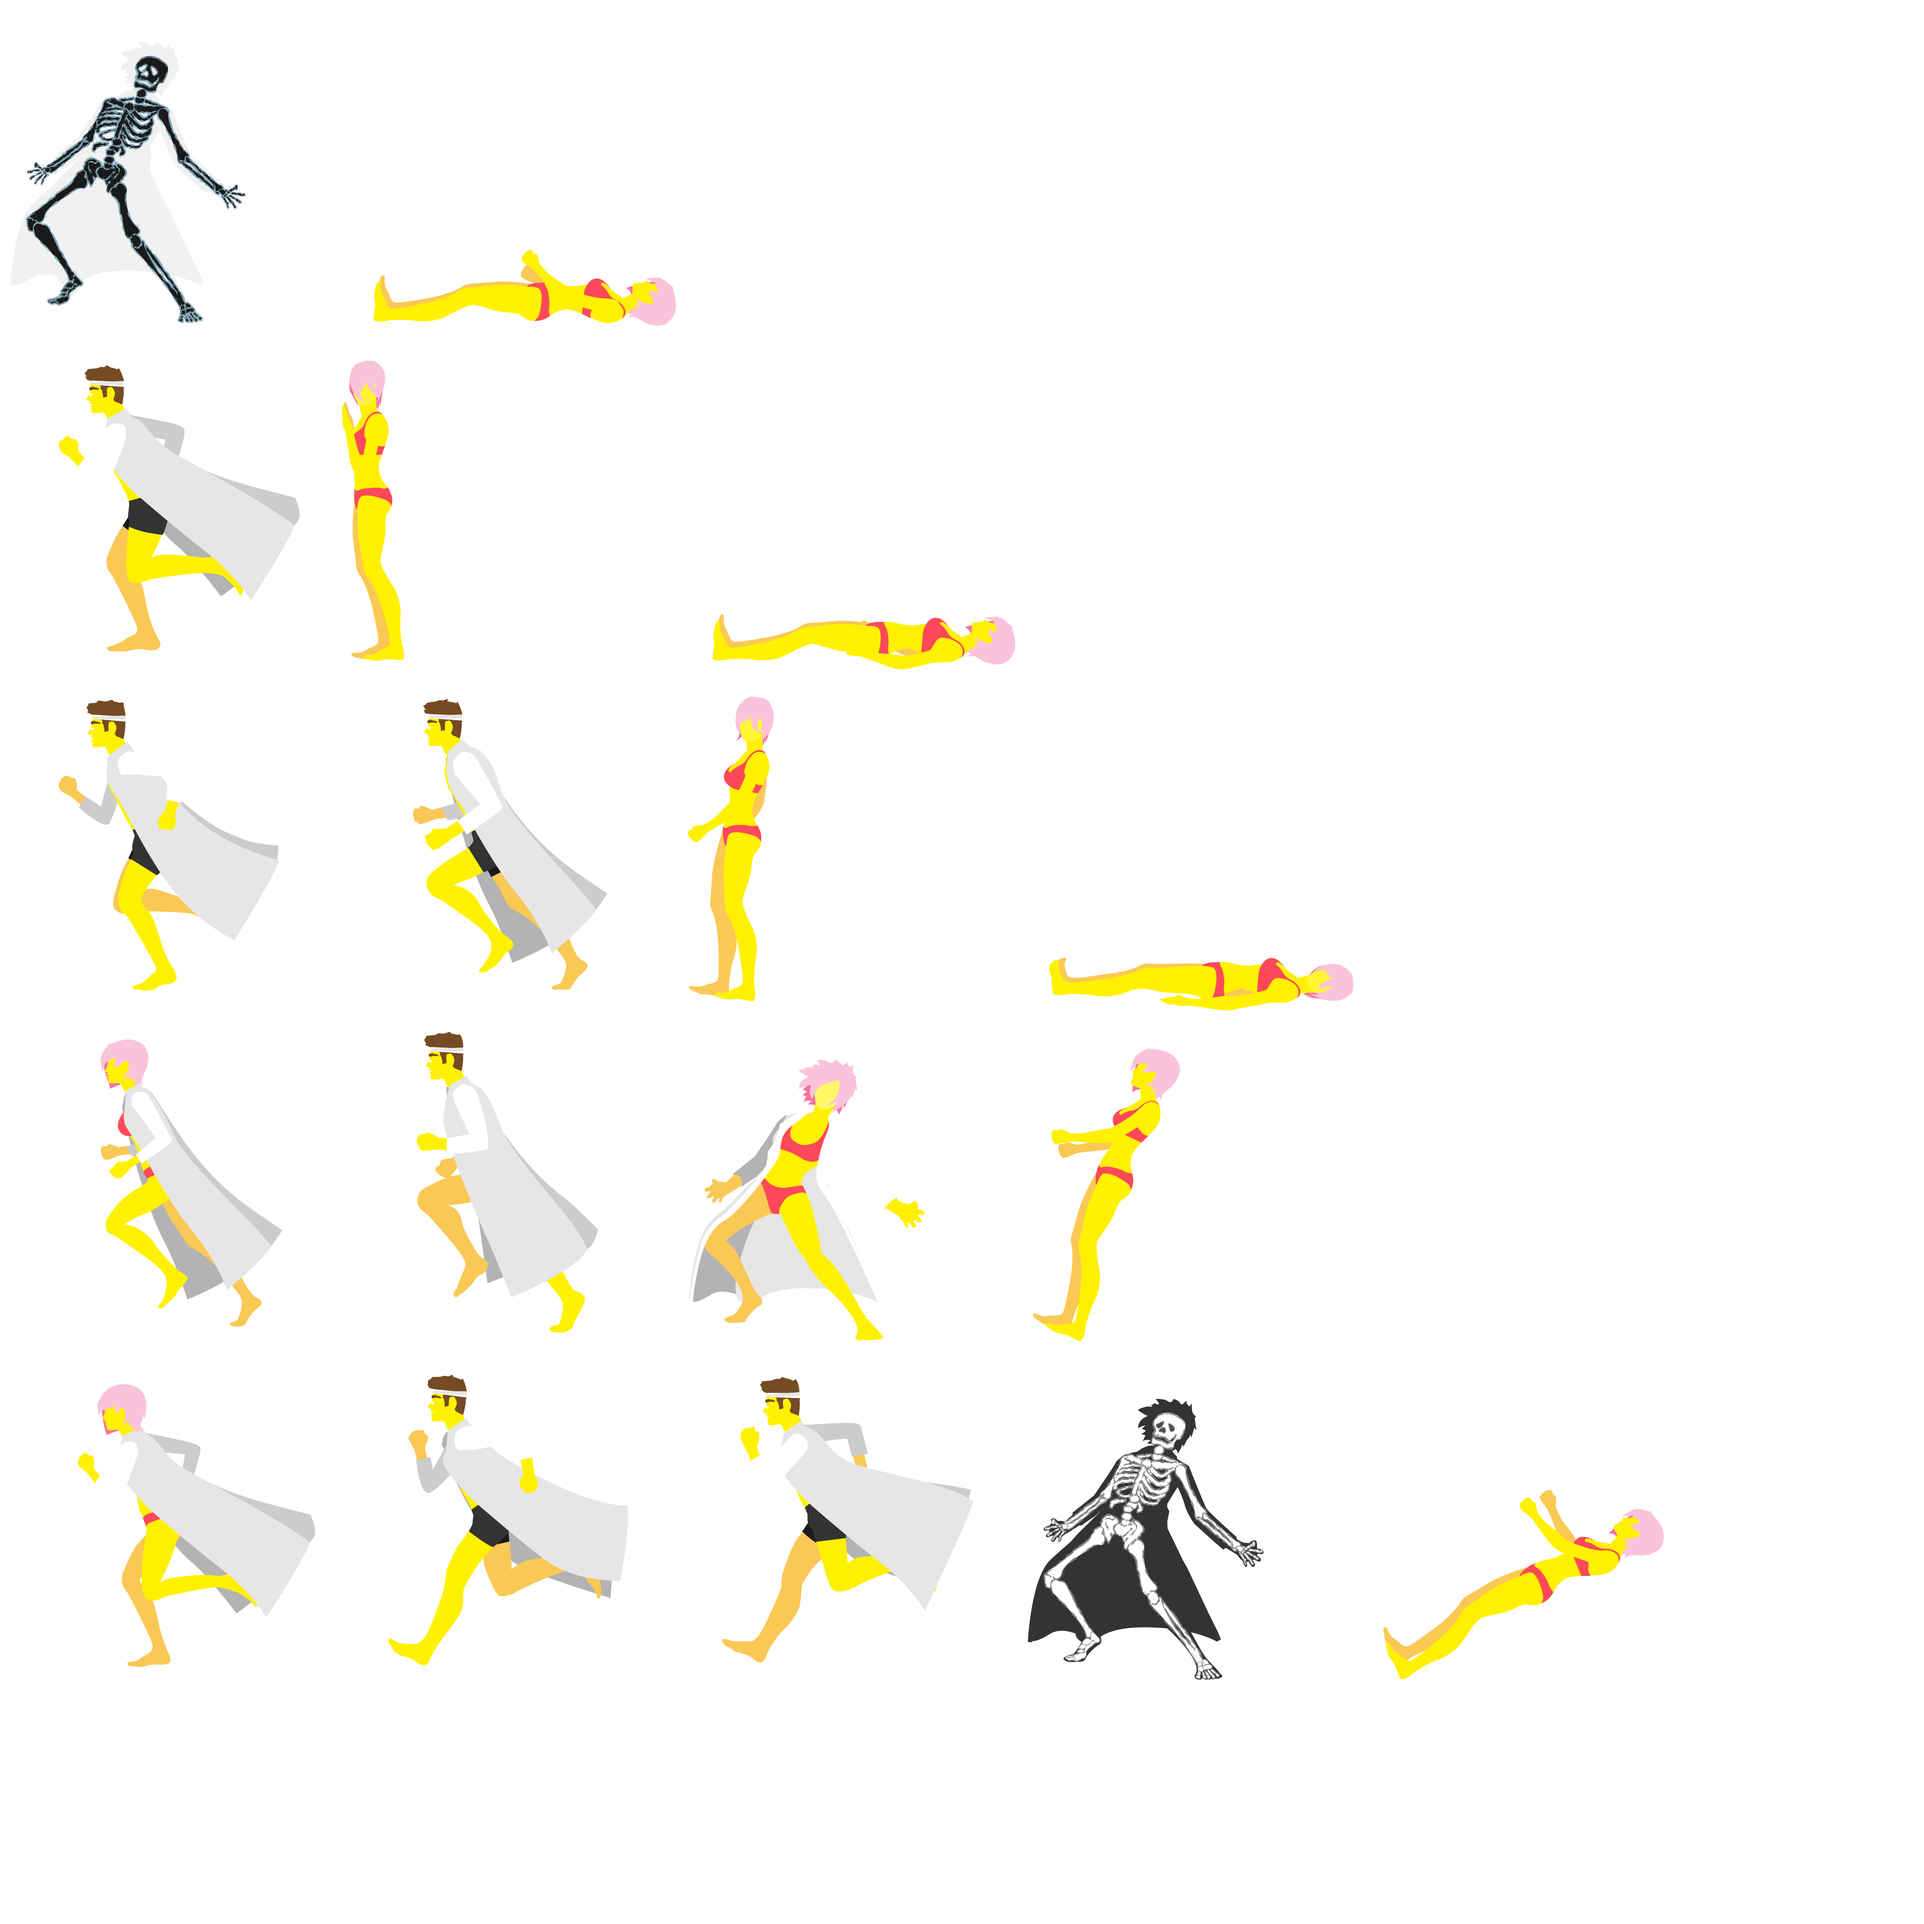
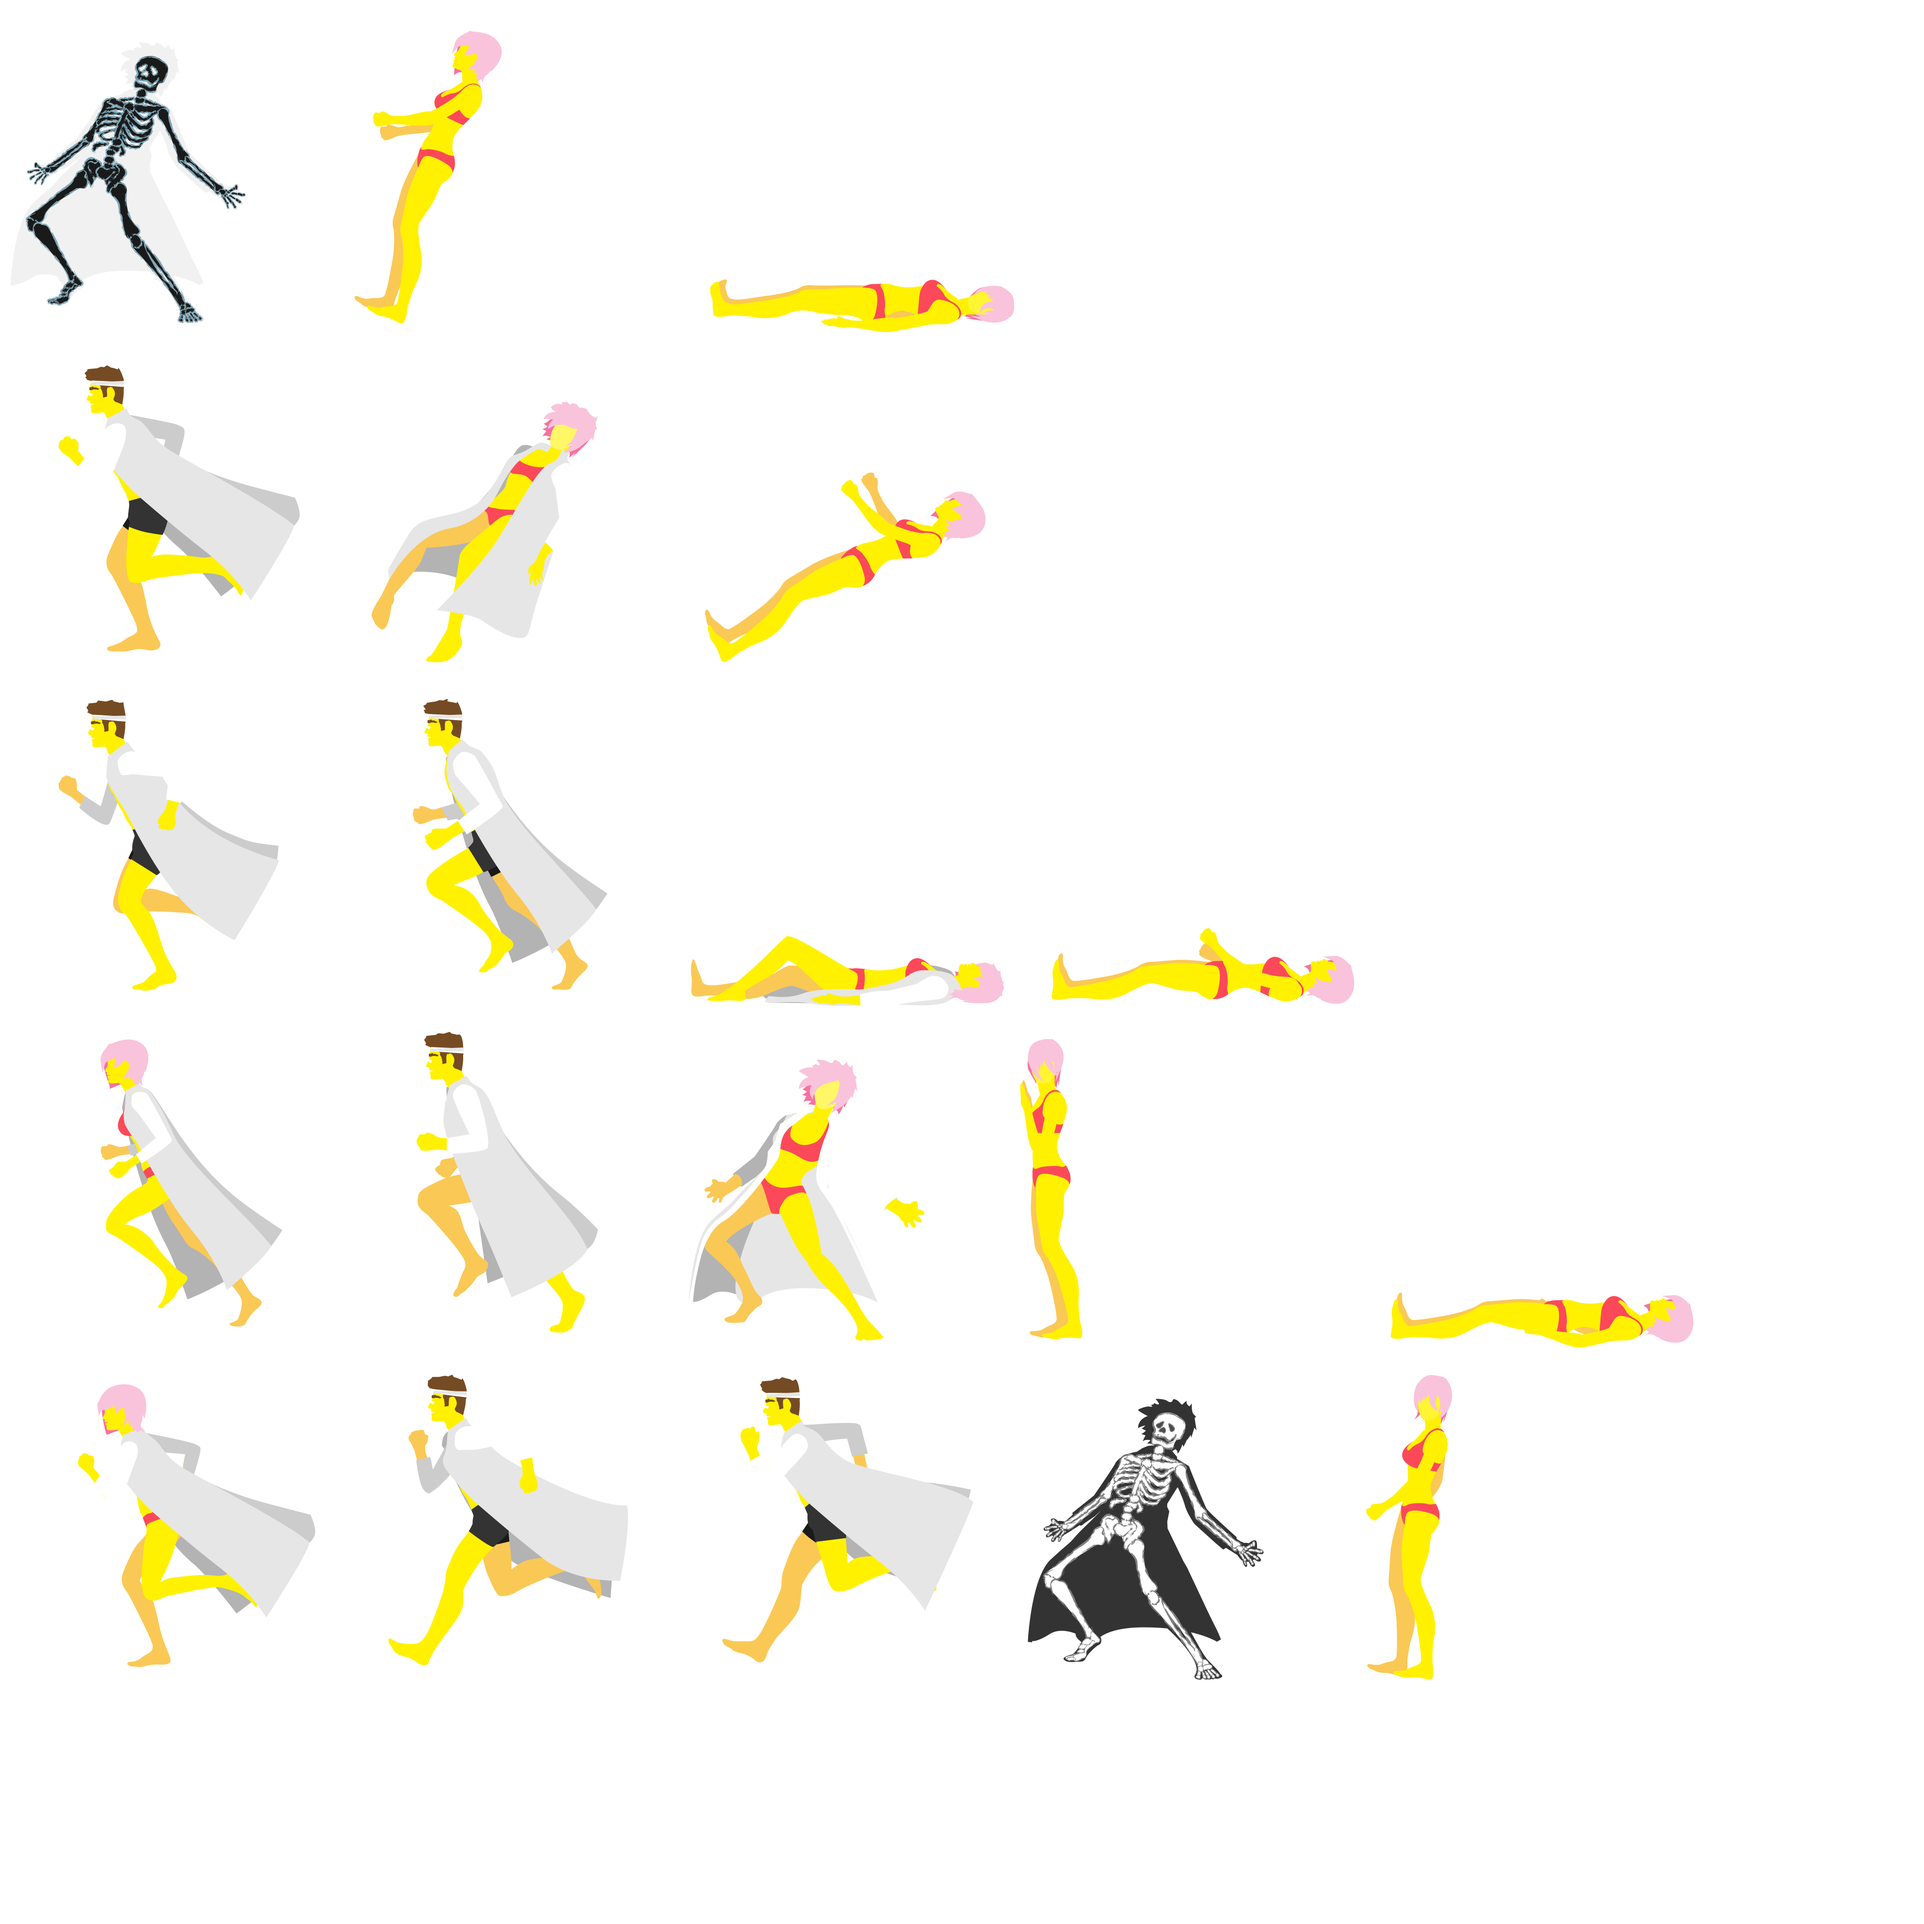
Adding shock animation, and option Size.
Finalizing the shock animation and fixing player selection ratio.

Changed region(s): [[0.1562, 0.0, 0.5312, 0.3438], [0.3438, 0.25, 0.7188, 0.7188], [0.7188, 0.6562, 0.875, 0.875]]

diff --git a/core/src/com/kasetagen/game/bubblerunner/scene2d/BubbleRunnerStage.java b/core/src/com/kasetagen/game/bubblerunner/scene2d/BubbleRunnerStage.java
@@ -68,8 +68,8 @@ public class BubbleRunnerStage extends BaseStage {
     private static final float INDICATOR_HEIGHT = ViewportUtil.VP_HEIGHT/4;
 
     private static String characterSelected = "Woman";
-    private static float[] playerDimensions = new float[] { 100f, 120f, 360f, 360f };//ViewportUtil.VP_WIDTH/8, (ViewportUtil.VP_HEIGHT/3) }; //old width 160f
-    //private static float[] floorDimensions = new float[] { 0f, 0f, ViewportUtil.VP_WIDTH, FLOOR_HEIGHT };
+    private static float[] playerDimensions = new float[] { 100f, 120f, 360f, 360f };
+
     private static float[] wallDimensions = new float[] {ViewportUtil.VP_WIDTH+FLOOR_HEIGHT,
                                                          FLOOR_HEIGHT, 40f, ViewportUtil.VP_HEIGHT-FLOOR_HEIGHT };
     private static float[] warningIndicatorDimensions = new float[] {ViewportUtil.VP_WIDTH/2 - (INDICATOR_WIDTH/2), ViewportUtil.VP_HEIGHT/2-(INDICATOR_HEIGHT/2),

diff --git a/core/src/com/kasetagen/game/bubblerunner/util/AnimationUtil.java b/core/src/com/kasetagen/game/bubblerunner/util/AnimationUtil.java
@@ -11,6 +11,6 @@ public class AnimationUtil {
 
     public static final float RUNNER_CYCLE_RATE = 1f/8f;
     public static final float RUNNER_FIRE_CYCLE_RATE = 1f/6f;
-    public static final float RUNNER_ELECTRO_CYCLE_RATE = 1f/8f;
+    public static final float RUNNER_ELECTRO_CYCLE_RATE = 1f/10f;
     public static final float RUNNER_WALL_CYCLE_RATE = 1f/8f;
 }

diff --git a/core/src/com/kasetagen/game/bubblerunner/screen/BubbleRunnerOptionsMenu.java b/core/src/com/kasetagen/game/bubblerunner/screen/BubbleRunnerOptionsMenu.java
@@ -150,7 +150,7 @@ public class BubbleRunnerOptionsMenu extends BaseBubbleRunnerScreen{
         table.columnDefaults(2).expandX().left().padLeft(50);
 
         table.add(charSelect).right();
-        table.add(currentFrame);
+        table.add(currentFrame).height(colHeight*2);
         table.add(charToggle);
 
         table.row();
